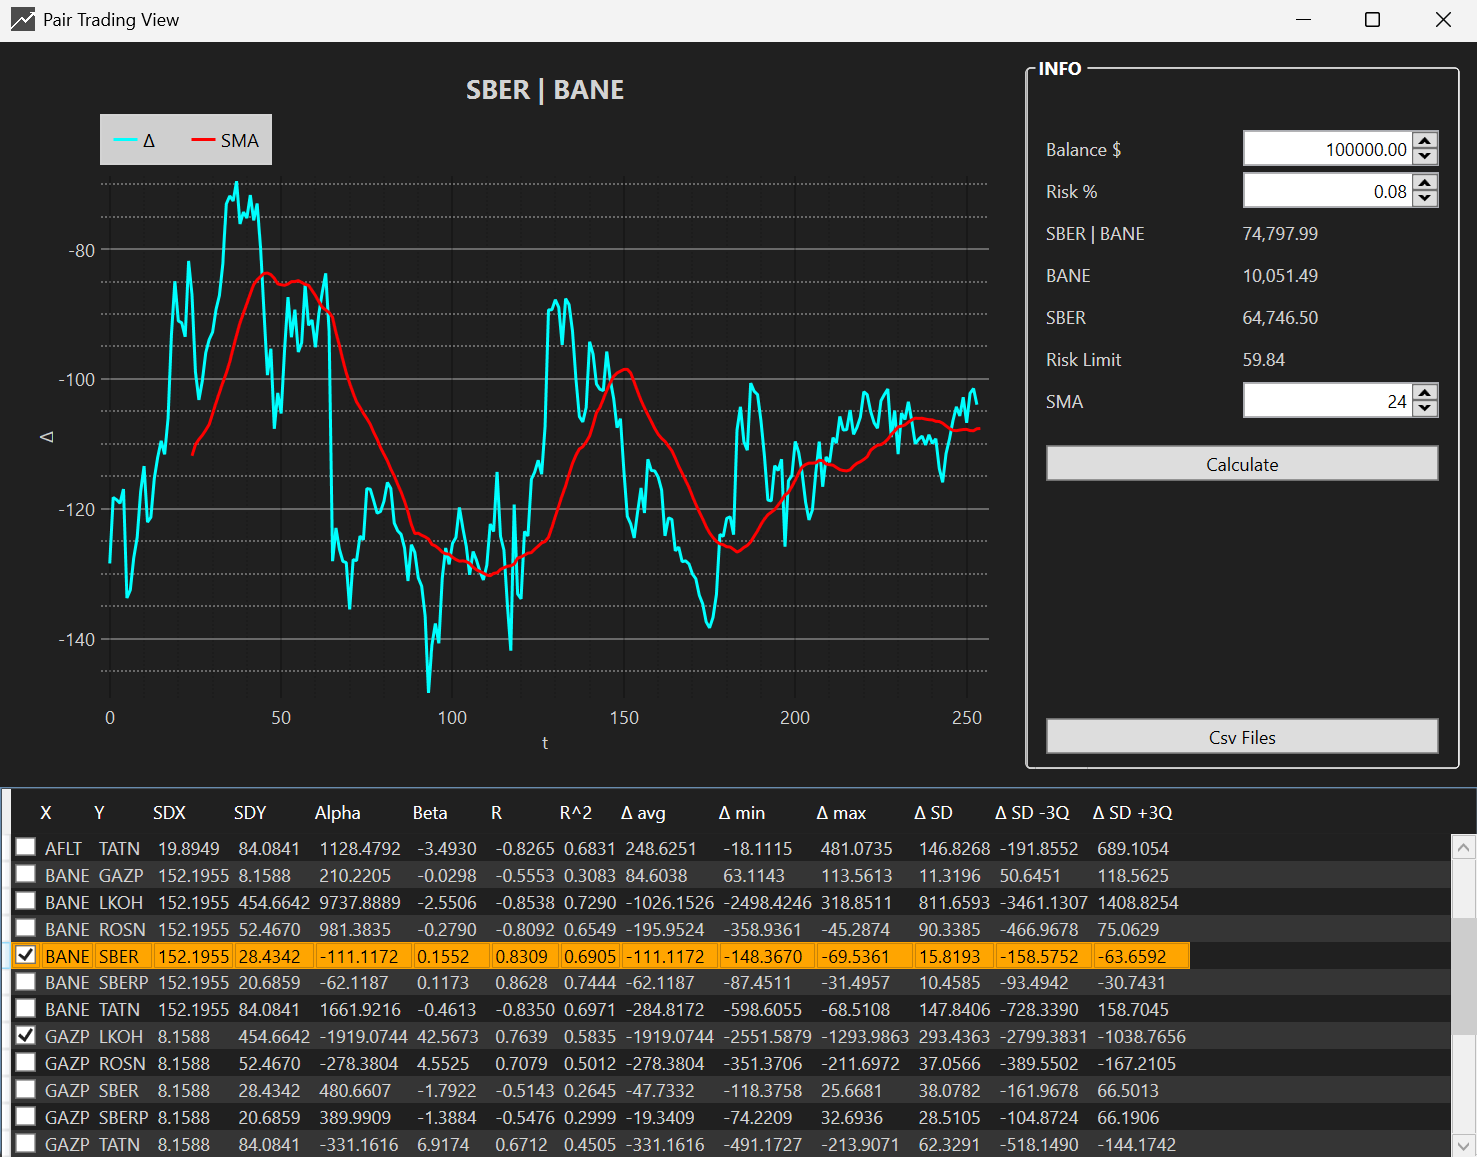
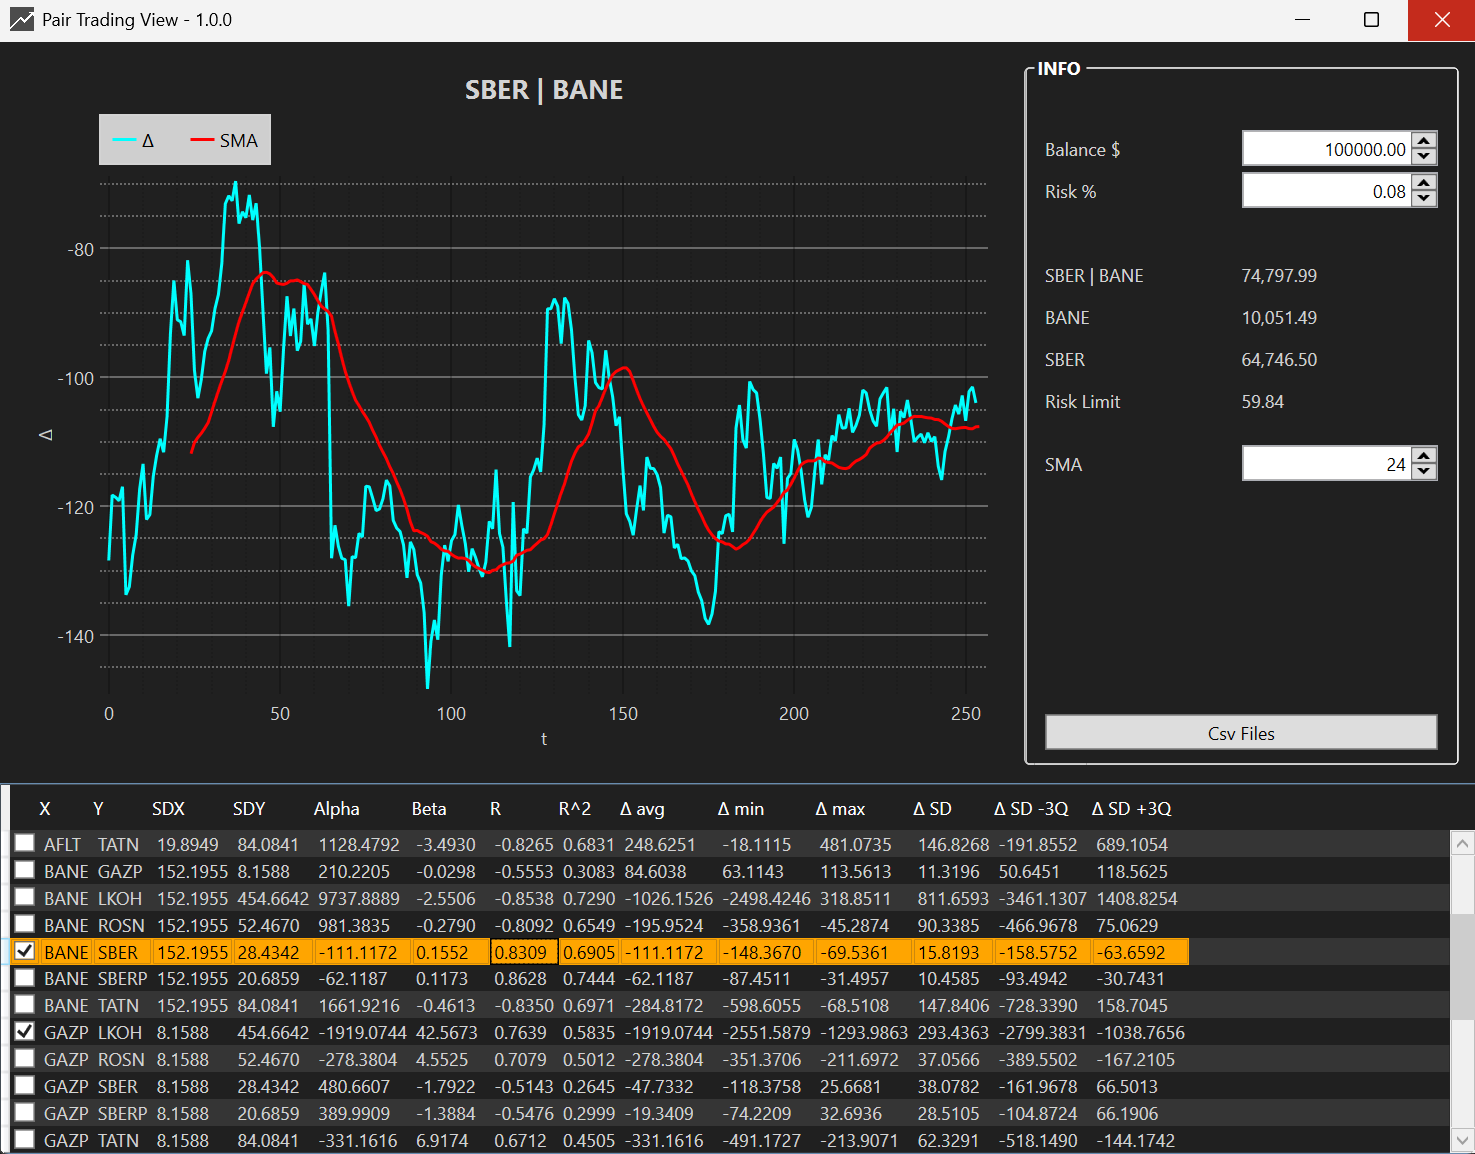
Update README instructions and main window screenshot

diff --git a/README.md b/README.md
@@ -22,7 +22,7 @@
 - Put CSV files with historical data into the 'pair-trading-view\PairTradingView.WpfApp\bin\Debug\net8.0-windows\csv-files' folder.
 - Press 'Load Data From Files'.
 - Press 'Calculate'.
-
+- Enter the balance and risk, and select pairs in the table using checkboxes or by double-clicking.
 
 ## Model
 - SI -> synthetic index